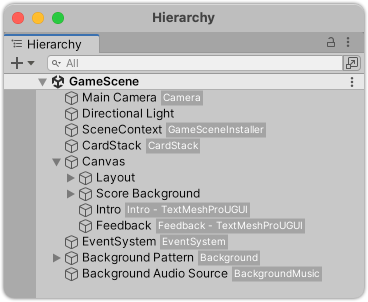
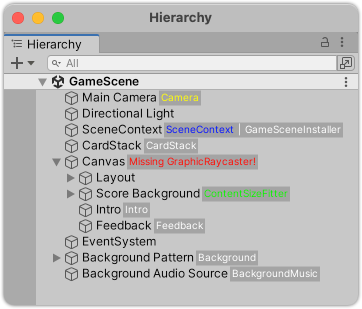
Updated documentation to include new styling options.

Changed region(s): [[0.0, 0.0298, 1.0, 0.9536], [0.395, 0.0298, 0.5773, 0.0894]]

diff --git a/Samples~/UniqueColorLabelStyleProvider.cs b/Samples~/UniqueColorLabelStyleProvider.cs
@@ -1,0 +1,22 @@
+using System;
+using System.ComponentModel;
+using HierarchyLabels;
+using UnityEngine;
+using Component = UnityEngine.Component;
+using Random = System.Random;
+
+[Serializable, DisplayName("Unique Color per Component")]
+public class UniqueColorLabelStyleProvider : ILabelStyleProvider
+{
+    public GUIStyle GetStyle(Component component)
+    {
+        var random = new Random(component.GetInstanceID());
+        return new GUIStyle(DefaultLabelStyleProvider.Style)
+        {
+            normal =
+            {
+                textColor = new Color((float)random.NextDouble(), (float)random.NextDouble(), (float)random.NextDouble())
+            }
+        };
+    }
+}

diff --git a/README.md b/README.md
@@ -28,9 +28,9 @@ Custom labels for the Unity Hierarchy window:
 
 ## Features
 
-- Display a label (or multiple) for each element in Unity's hierarchy window
+- Display a label (or multiple) for each GameObject in Unity's hierarchy window
 - Add custom rules for displaying a label
-- Custom label styling
+- Custom label styling per rule
 
 ## How to use
 
@@ -59,15 +59,20 @@ Add a new class that inherits from `HierarchyLabelRule` (recommended) or impleme
 
 ```csharp
 using System;
+using System.ComponentModel;
 using HierarchyLabels;
 using UnityEngine;
 using UnityEngine.UI;
+using Component = UnityEngine.Component;
 
 [Serializable]
 public class CanvasWithoutRaycastHierarchyLabelRule : HierarchyLabelRule
 {
-    public override bool GetLabel(Component component, out string label)
+    [SerializeField] private bool _includeDisabled;
+
+    public override bool GetLabel(Component component, out string label, out GUIStyle style)
     {
+        style = StyleProvider.GetStyle(component);
         label = string.Empty;
 
         if (component is Canvas && !component.GetComponent<GraphicRaycaster>())
@@ -95,18 +100,21 @@ For this, we add a `[SerializedField]` to the class above:
 
 ```csharp
 using System;
+using System.ComponentModel;
 using HierarchyLabels;
 using UnityEngine;
 using UnityEngine.UI;
+using Component = UnityEngine.Component;
 
 [Serializable]
 public class CanvasWithoutRaycastHierarchyLabelRule : HierarchyLabelRule
 {
-    //All serialized fields will show up in the settings and can be used to configure your rule
+     //All serialized fields will show up in the settings and can be used to configure your rule
     [SerializeField] private bool _includeDisabled;
 
-    public override bool GetLabel(Component component, out string label)
+    public override bool GetLabel(Component component, out string label, out GUIStyle style)
     {
+        style = StyleProvider.GetStyle(component);
         label = string.Empty;
 
         if (component is Canvas && IsRaycastDisabledOrMissing(component))
@@ -128,9 +136,13 @@ public class CanvasWithoutRaycastHierarchyLabelRule : HierarchyLabelRule
 
 Any `[SerializedField]` will show up in the preferences window and can be used to configure your rule.
 
+`[SerializedReference]` fields will also show up, however you need to provide your own logic to assign values to it, as Unity does not have any built-in way of assiging values to such fields.
+
+A special case is `[SerializeReference]` for `ILabelStyleProvider` fields: In that case a dropdown will appear where you can select out of all classes that implement this interface.
+
 ![Example of custom rule with configuration](Documentation~/CustomRuleExample2.png)
 
-The example above now shows the option to include disabled components, and it properly shows the label on the GameObject in the hierarchy (not the disabled `GraphicalRaycaster` on the selected object).
+The example above now shows the option to include disabled components, and it properly shows the label on the GameObject in the hierarchy (not the disabled `GraphicRaycaster` on the selected object).
 
 ### Add name and description for your rule
 
@@ -145,14 +157,15 @@ using UnityEngine.UI;
 using Component = UnityEngine.Component;
 
 [Serializable,
- DisplayName("Missing Raycaster on Canvas"),
- Description("Shows a label if a Canvas is attached but no GraphicalRaycaster is present or it is disabled.")]
+DisplayName("Missing Raycaster on Canvas"),
+Description("Shows a label if a Canvas is attached but no GraphicRaycaster is present or it is disabled.")]
 public class CanvasWithoutRaycastHierarchyLabelRule : HierarchyLabelRule
 {
     [SerializeField] private bool _includeDisabled;
 
-    public override bool GetLabel(Component component, out string label)
+    public override bool GetLabel(Component component, out string label, out GUIStyle style)
     {
+        style = StyleProvider.GetStyle(component);
         label = string.Empty;
 
         if (component is Canvas && IsRaycastDisabledOrMissing(component))
@@ -179,13 +192,43 @@ public class CanvasWithoutRaycastHierarchyLabelRule : HierarchyLabelRule
 - Try to keep expensive method calls like `GetComponent()` to a minimum.
 - Use `ISerializationCallbackReceiver` or `[InitializeOnLoadMethod]`-attributes to do expensive calls instead of in each `GetLabel()` call.
 - If you implement `IHierarchyLabelRule` instead of inheriting from `HierarchyLabelRule`, it is recommended to call `EditorApplication.RepaintHierarchyWindow()` after any settings in your rule have changed, e.g. via the `ISerializationCallbackReceiver.OnBeforeSerialize()` method.
-- Make sure to add the `[Serializable]` attribute to your rule implementation class.
+- If you implement `IHierarchyLabelRule` instead of inheriting from `HierarchyLabelRule`, adding a `[SerializedReference]` field of type `ILabelStyleProvider` to get the styling dropdown menu. Otherwise you can fall back to `DefaultLabelStyleProvider.Style`.
+- Make sure to add the `[Serializable]` attribute to your rule/style implementation class.
+
+## Custom styling
+
+To implement a styling rule, the process is almost the same as for custom label rules. The `[DisplayName]` attribute is supported as well.
+
+The following example will generate a unique color for each component (regardless of type).
+
+```csharp
+using System;
+using System.ComponentModel;
+using HierarchyLabels;
+using UnityEngine;
+using Component = UnityEngine.Component;
+using Random = System.Random;
+
+[Serializable, DisplayName("Unique Color per Component")]
+public class UniqueColorLabelStyleProvider : ILabelStyleProvider
+{
+    public GUIStyle GetStyle(Component component)
+    {
+        var random = new Random(component.GetInstanceID());
+        return new GUIStyle(DefaultLabelStyleProvider.Style)
+        {
+            normal =
+            {
+                textColor = new Color((float)random.NextDouble(), (float)random.NextDouble(), (float)random.NextDouble())
+            }
+        };
+    }
+}
+```
+
+![Example of styling each label with a random color per component](Documentation~/RandomColorStylingExample.png)
 
 ## Known limitations
 
 - If your rule is based on some values of a GameObject, i.e. if a component is disabled or not, changing that value on the GameObject will not immediately trigger a redraw of the hierarchy window, and hence your label might not show/hide immediately, except if this dirties the scene.
 - If you rename your class, change it's namespace, or it's assembly is modified, the rule is removed from the list of active rules and has to be re-added (`Missing types referenced` warning in the console). This is a limitation by Unity, and is [possibly addressed in the future](https://issuetracker.unity3d.com/issues/serializereference-serialized-reference-data-lost-when-the-class-name-is-refactored). One way around this issue is adding the [`[MovedFromAttribute]`](https://github.com/Unity-Technologies/UnityCsReference/blob/master/Runtime/Export/Scripting/APIUpdating/UpdatedFromAttribute.cs) to the class that was changed.
-
-## Future Plans
-
-- Provide better styling options
